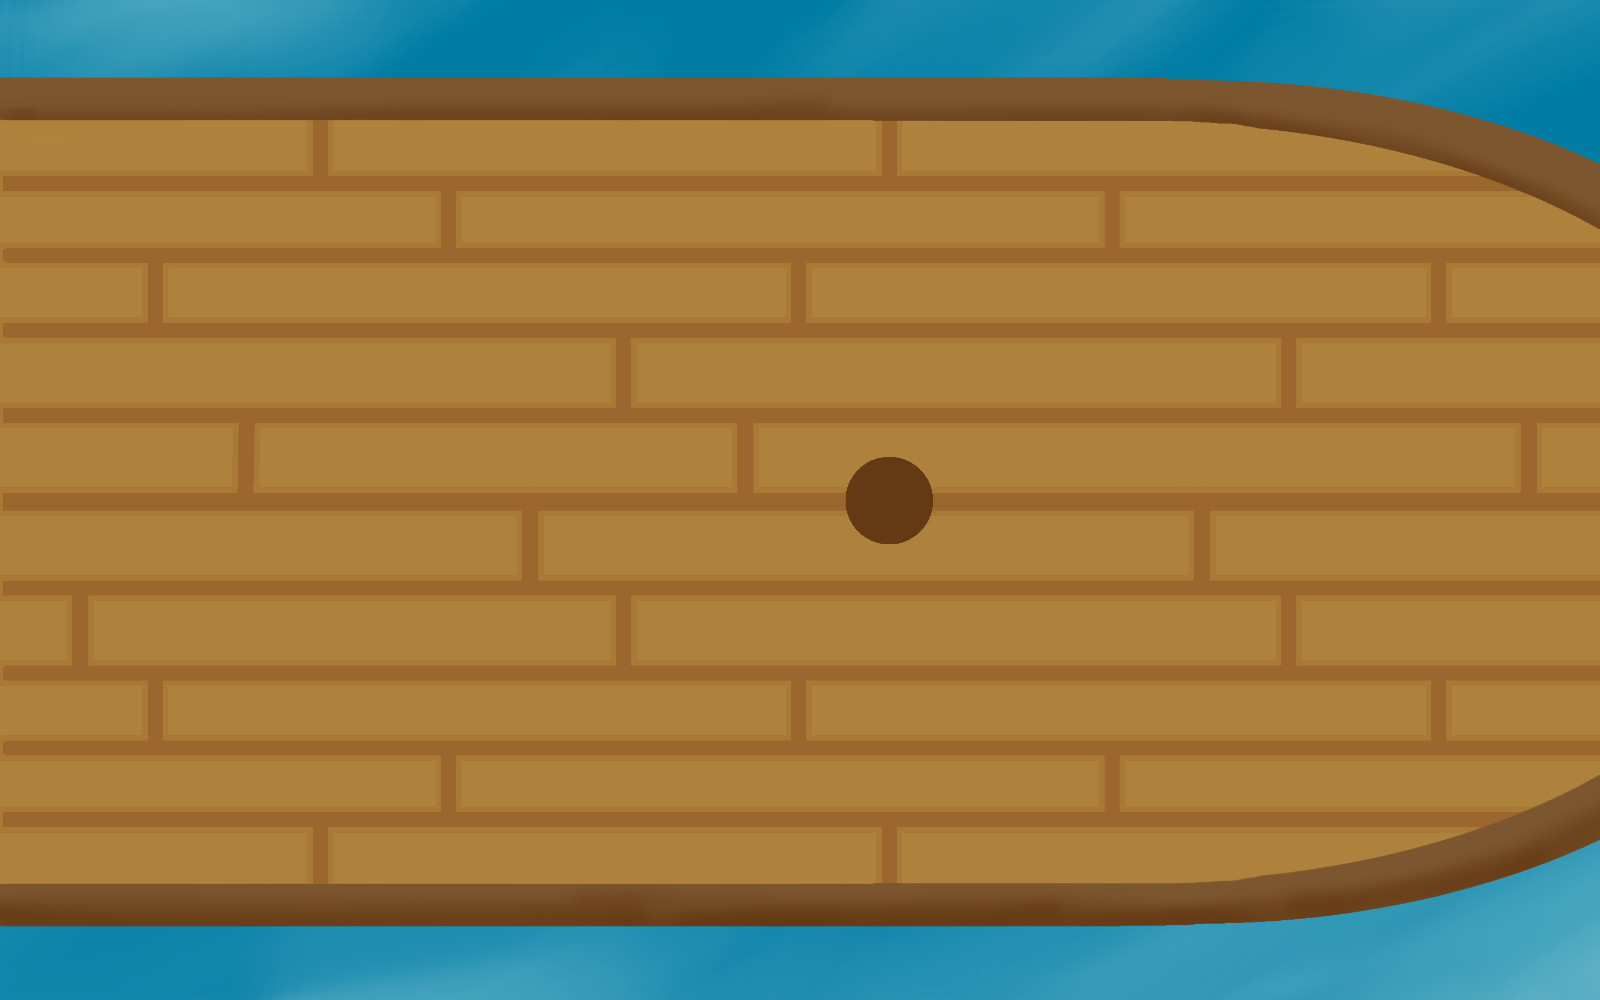
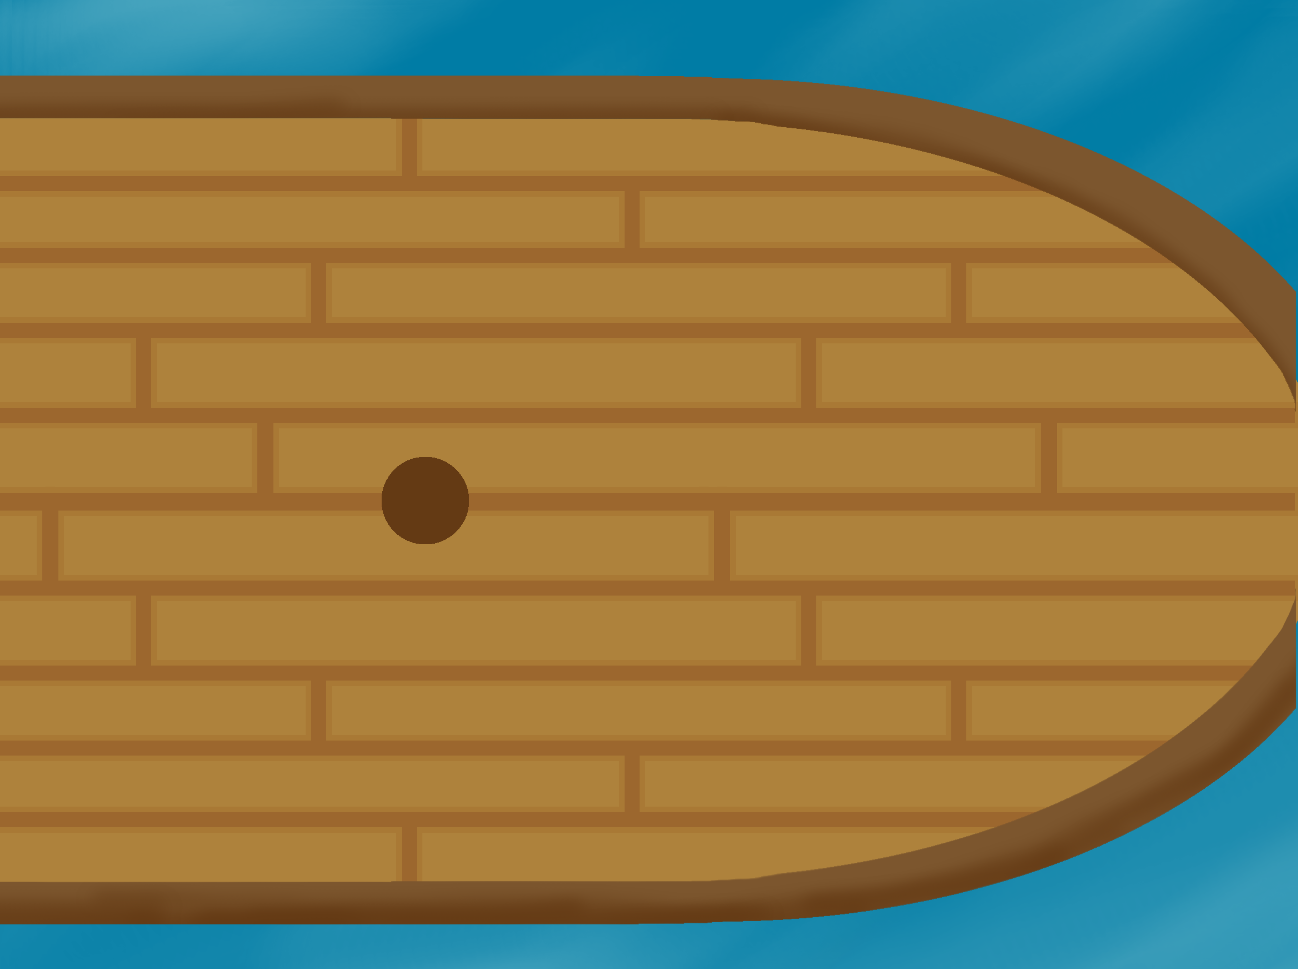
Es gibt Kugelfische & Sprungfedern
Außerdem Hintergrund an neue Größe angepasst. Meinungen erwünscht

diff --git a/src/arrriba/view/style.css b/src/arrriba/view/style.css
@@ -12,15 +12,15 @@
     -fx-stroke: black;
 }
 
-.puffer {
+/*.puffer {
     -fx-stroke-width: 4px;
     -fx-stroke: #ff00ff;
-}
+}*/
 
-.spring {
+/*.spring {
     -fx-stroke-width: 4px;
     -fx-stroke: #99ff00;
-}
+}*/
 
 .collision {
     -fx-stroke: #00ffff;

diff --git a/src/arrriba/model/Puffer.java b/src/arrriba/model/Puffer.java
@@ -16,7 +16,7 @@ import javafx.scene.shape.Circle;
 public class Puffer extends GameModel {
     public Puffer (final double posX, final double posY, final double size) {
         Circle shape = new Circle(posX, posY, size / 2);
-        Image texture = new Image("/arrriba/view/Textur.png");
+        Image texture = new Image("/arrriba/view/Kugelfisch.png");
         shape.setFill(new ImagePattern(texture, 0, 0, 1, 1, true));
         shape.getStyleClass().add("puffer");
         this.setShape(shape);

diff --git a/src/arrriba/model/Spring.java b/src/arrriba/model/Spring.java
@@ -17,7 +17,7 @@ public class Spring extends GameModel {
     
     public Spring (final double posX, final double posY, final double size) {
         Rectangle shape = new Rectangle(posX, posY, size, size);
-        Image texture = new Image("/arrriba/view/Textur.png");
+        Image texture = new Image("/arrriba/view/Sprungfeder.png");
         shape.setFill(new ImagePattern(texture, 0, 0, 1, 1, true));
         shape.getStyleClass().add("spring");
         this.setShape(shape);
